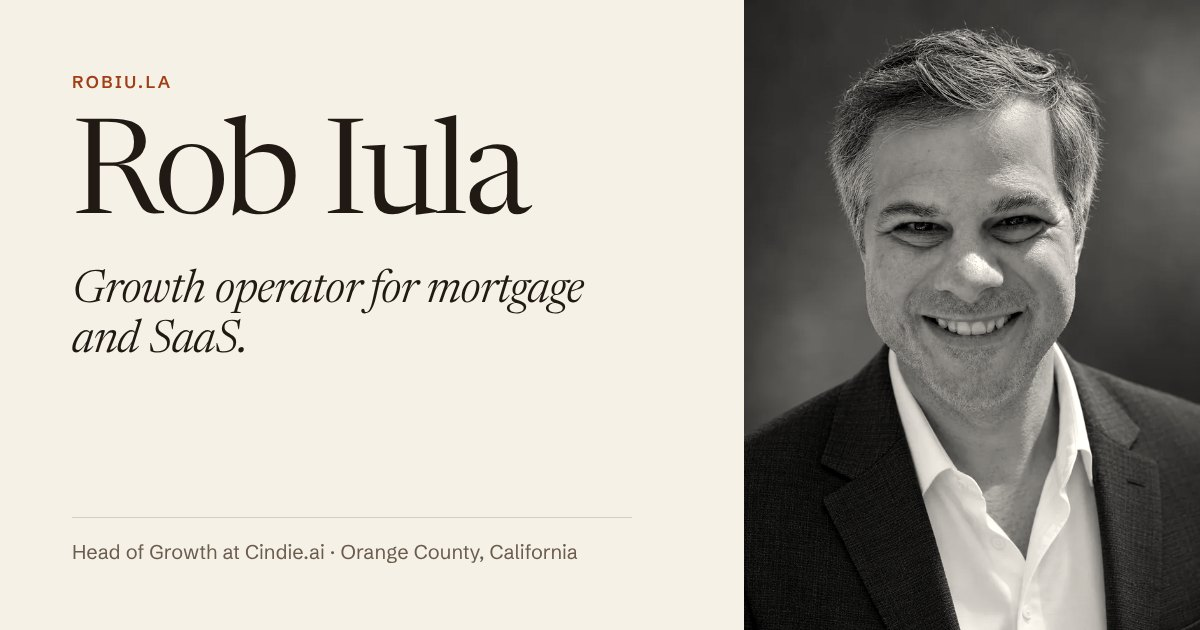
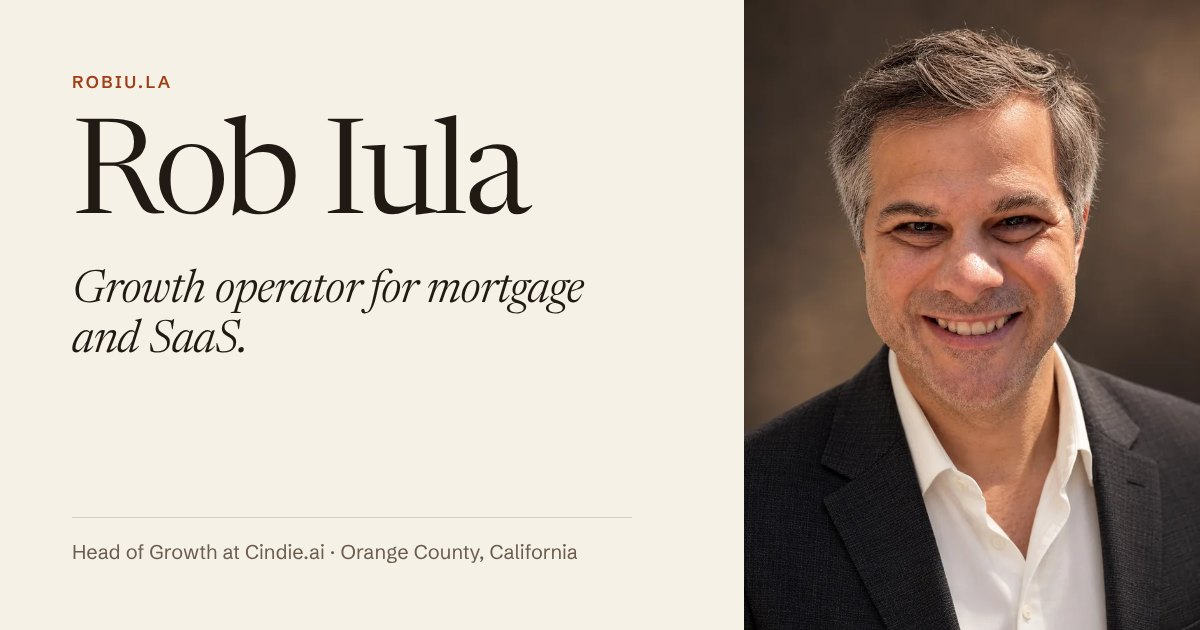
Show the portrait in full color
Drop the black-and-white filter on the hero portrait, the article byline
and the author box, and re-render the link-preview image in color.

Claude-Session: https://claude.ai/code/session_01WskrPeJw6cgbVFfT1UEcTw

Changed region(s): [[0.6475, 0.0603, 0.925, 0.8746], [0.9558, 0.0905, 1.0, 0.3016]]

diff --git a/assets/site.css b/assets/site.css
@@ -278,7 +278,6 @@ a { color: inherit; }
   aspect-ratio: 4 / 5;
   object-fit: cover;
   background: var(--paper-deep);
-  filter: grayscale(1) sepia(0.14) contrast(1.04);
 }
 .portrait figcaption { font-style: italic; font-size: 15px; line-height: 1.45; color: var(--ink-muted); }
 @media (max-width: 900px) {
@@ -494,7 +493,7 @@ a { color: inherit; }
   font: 400 14px/20px var(--font-sans);
   color: var(--ink-muted);
 }
-.byline img { width: 48px; height: 60px; object-fit: cover; filter: grayscale(1) sepia(0.14) contrast(1.04); }
+.byline img { width: 48px; height: 60px; object-fit: cover; }
 .byline strong { display: block; color: var(--ink); font-weight: 600; }
 .article-main { min-width: 0; padding-top: var(--space-5); border-top: 1px solid var(--rule); }
 @media (max-width: 900px) {
@@ -533,7 +532,7 @@ a { color: inherit; }
   padding-block: var(--space-6) var(--space-9);
   border-top: 1px solid var(--ink);
 }
-.author-box img { width: 72px; height: 90px; object-fit: cover; filter: grayscale(1) sepia(0.14) contrast(1.04); }
+.author-box img { width: 72px; height: 90px; object-fit: cover; }
 .author-box__text { display: flex; flex-direction: column; gap: var(--space-3); font-size: 18px; line-height: 1.55; color: var(--ink-soft); }
 .author-box__name { font: 600 15px/20px var(--font-sans); color: var(--ink); }
 .author-box__links { display: flex; flex-wrap: wrap; gap: var(--space-2) var(--space-5); }
